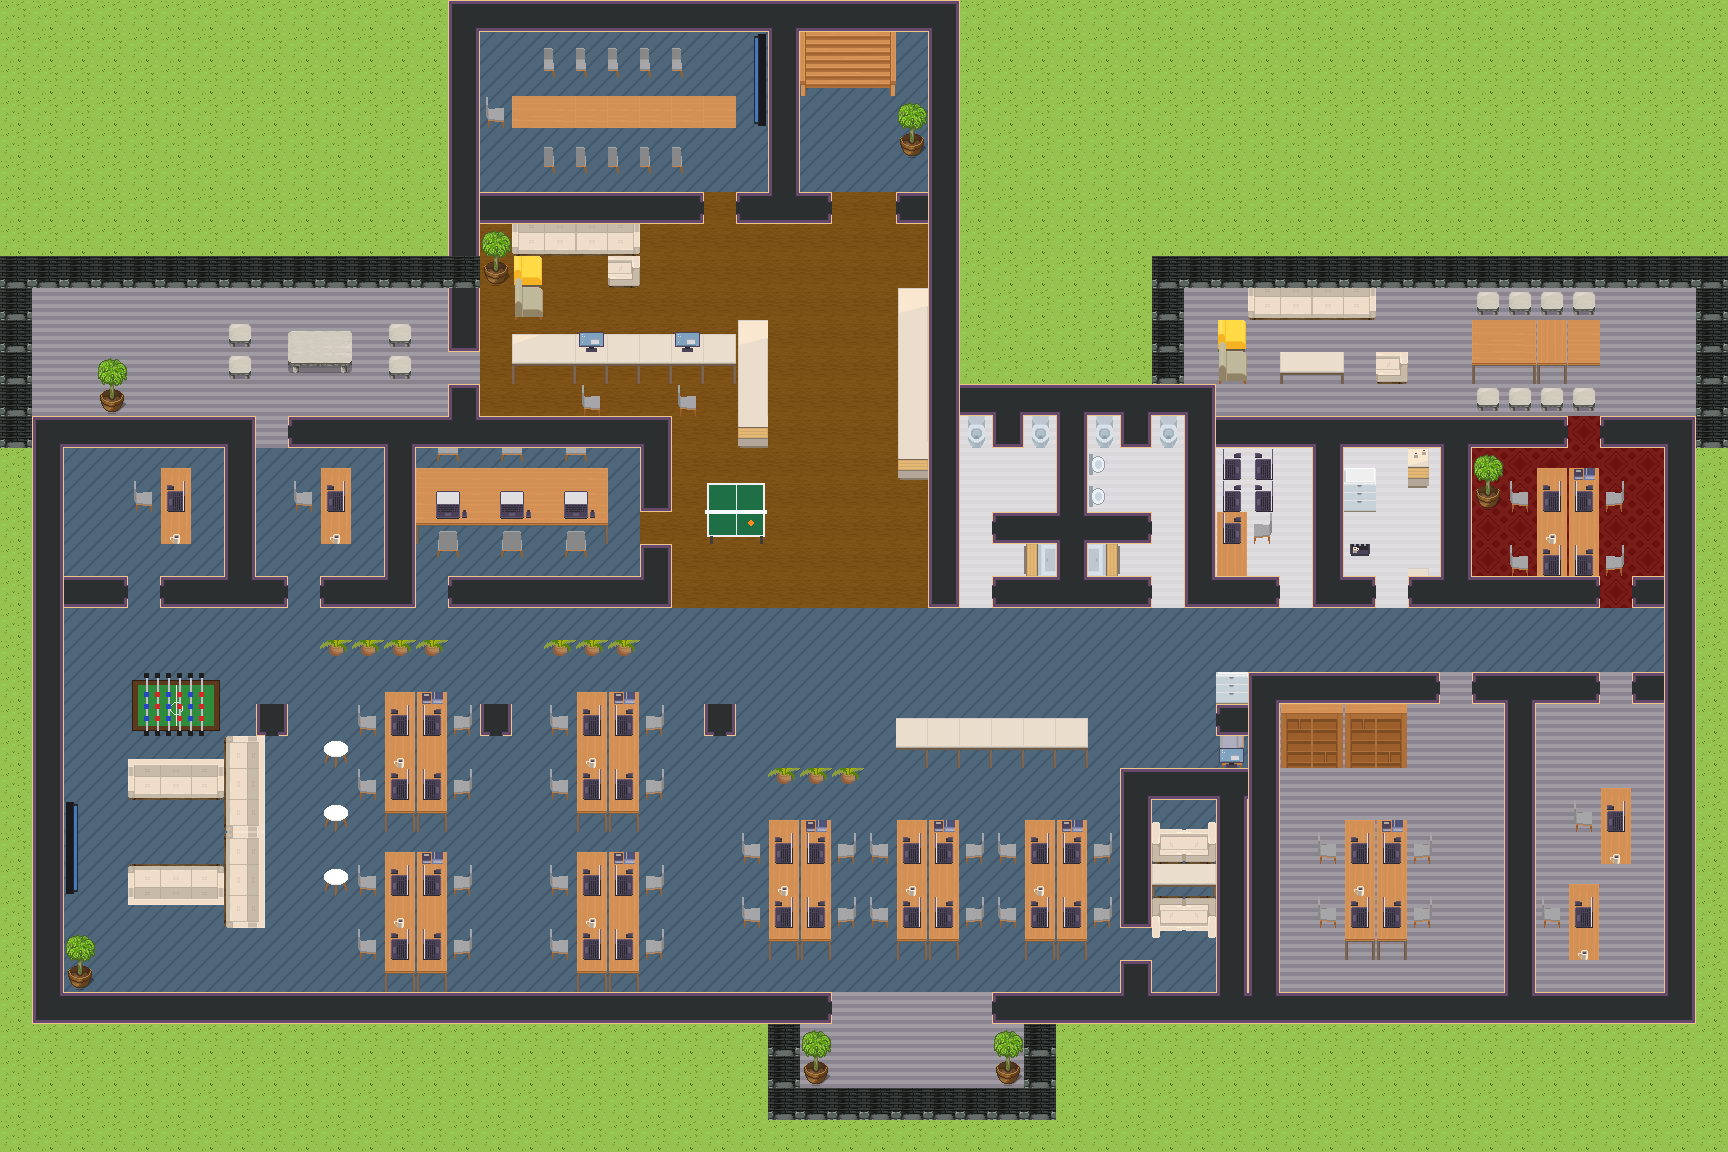
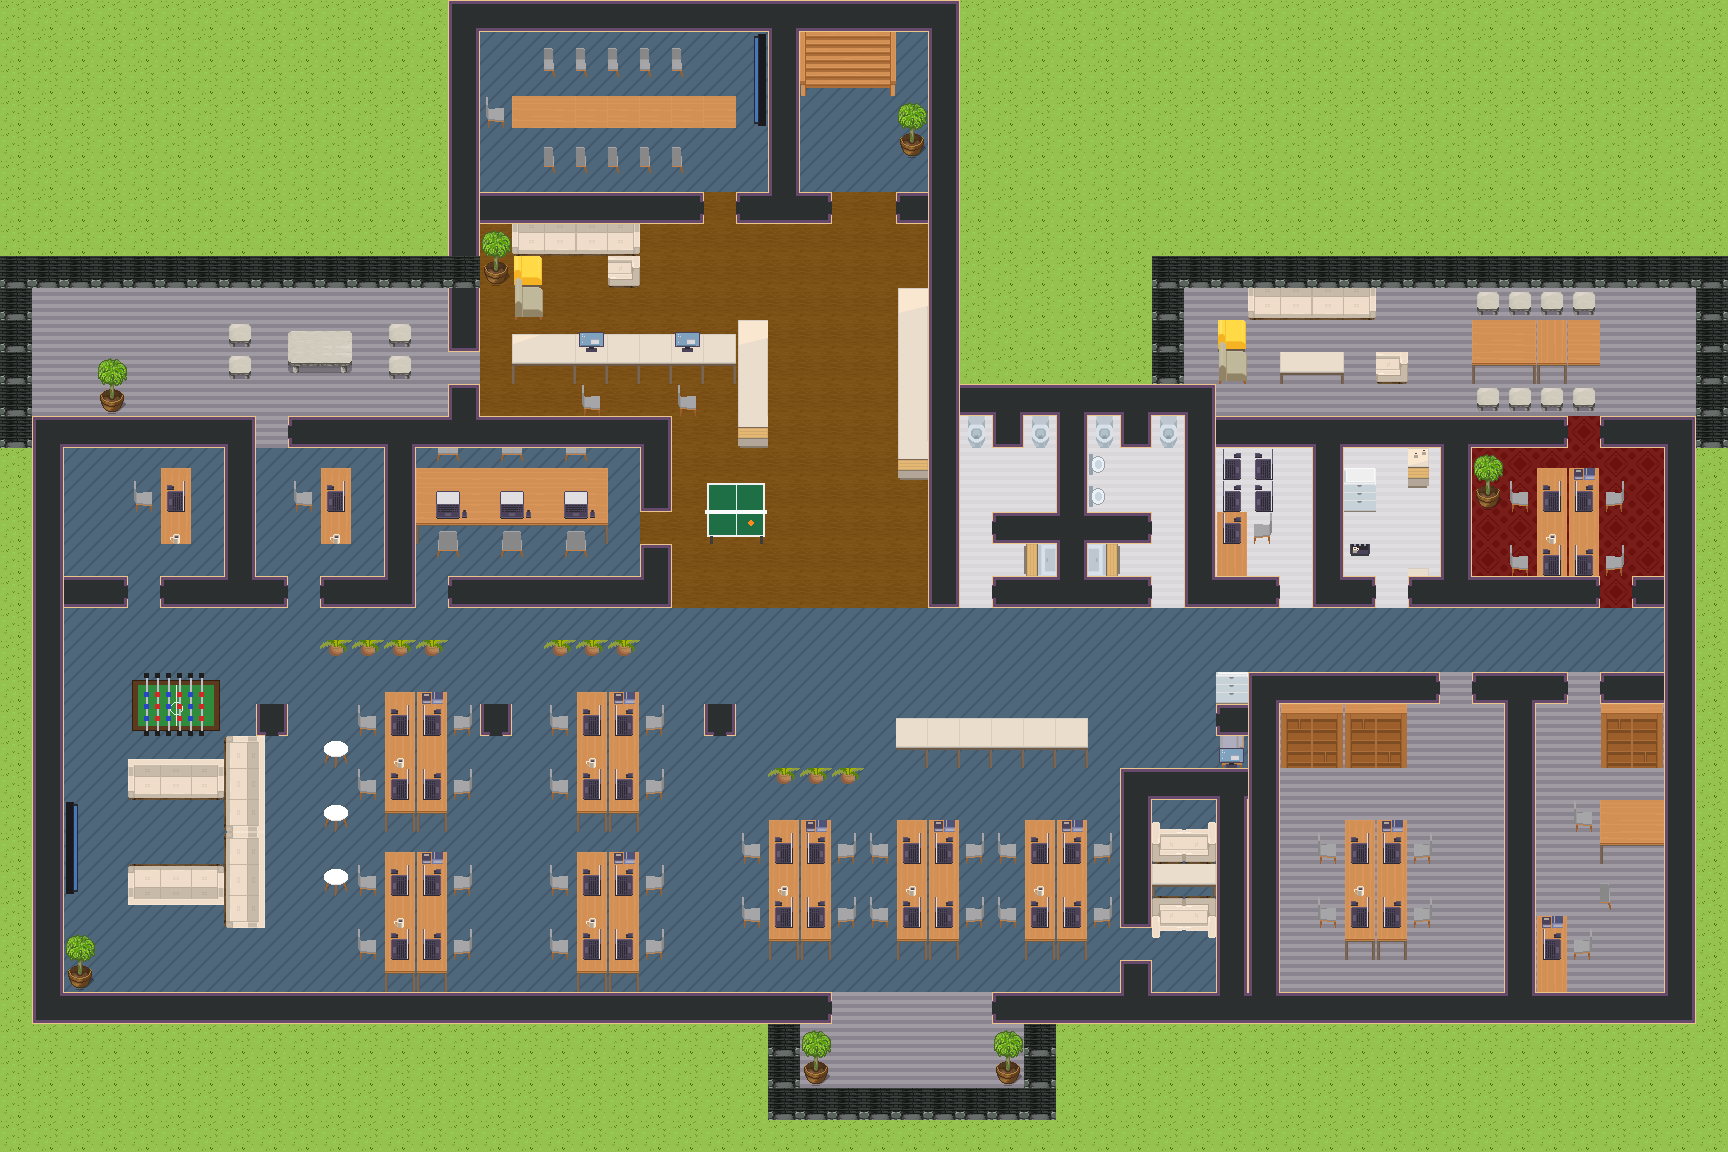
Rightmost office: wall desk bottom-left, small meeting table with two chairs, cabinet above

Changed region(s): [[0.875, 0.5625, 0.9688, 0.875]]

diff --git a/build.py b/build.py
@@ -97,7 +97,7 @@ door((4, 18), (9, 18), (13, 18))
 door((20, 16))               # meeting <-> lounge
 door((30, 18), (36, 18), (40, 18), (43, 18), (50, 18))
 door((49, 13))               # red room <-> right balcony
-door((45, 21), (50, 21))
+door((45, 21), (49, 21))
 door((35, 29))                         # small lounge entrance
 door((27, 31), (28, 31))
 for x in range(21, 29): WALL.discard((x, 18))   # lounge open towards corridor
@@ -251,7 +251,12 @@ for i, g in enumerate([1418, 1419, 1405, 1406]):
     put('furniture1', 36 + i % 2, 28 + i // 2, g | FLIP_Y)
 # right offices
 stamp(*DESK4, 41, 25)
-stamp(10, 3, 2, 3, 49, 24); stamp(10, 3, 2, 3, 48, 27)
+# rightmost office: desk bottom-left at the wall, small meeting table right-centre, cabinet above it
+stamp(12, 3, 2, 3, 48, 28)
+for (x, y), g in zip([(50, 25), (51, 25), (50, 26), (51, 26)], (1567, 1570, 1577, 1580)): obj('furniture1', x, y, g)
+stamp(10, 4, 1, 1, 49, 25, coll=False)                                 # chair left of the table
+put('furniture2', 50, 27, 1499); put('furniture2', 50, 28, 1512)       # chair below the table
+for i, g in enumerate([233, 234, 245, 246]): obj('furniture1', 50 + i % 2, 22 + i // 2, g)
 for x0 in (40, 42):                                                  # cabinets against the wall
     for i, g in enumerate([233, 234, 245, 246]): obj('furniture1', x0 + i % 2, 22 + i // 2, g)
 # entrance
